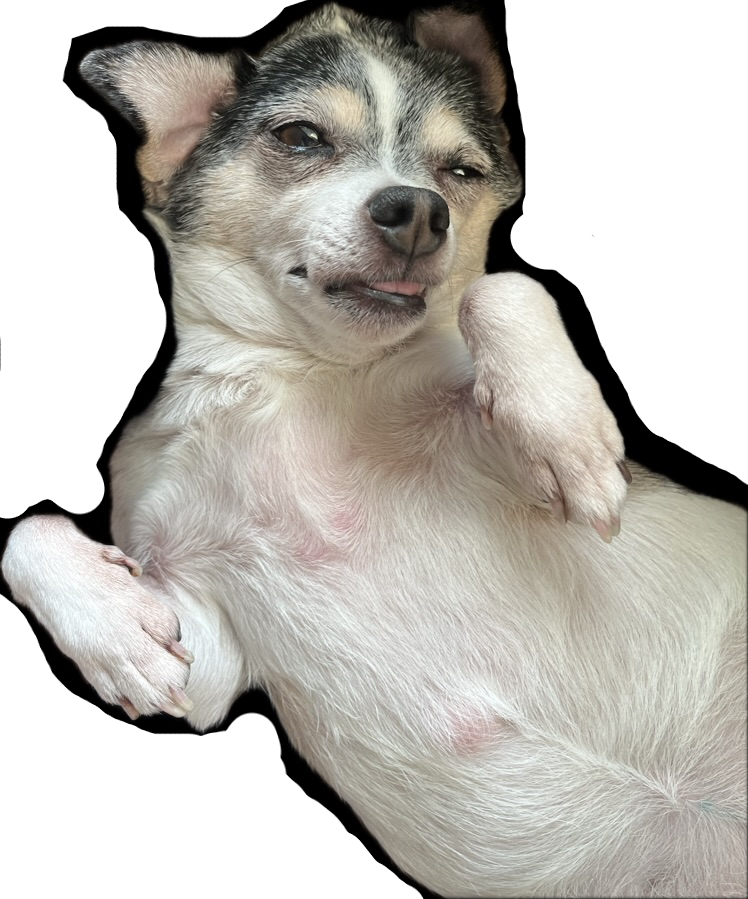
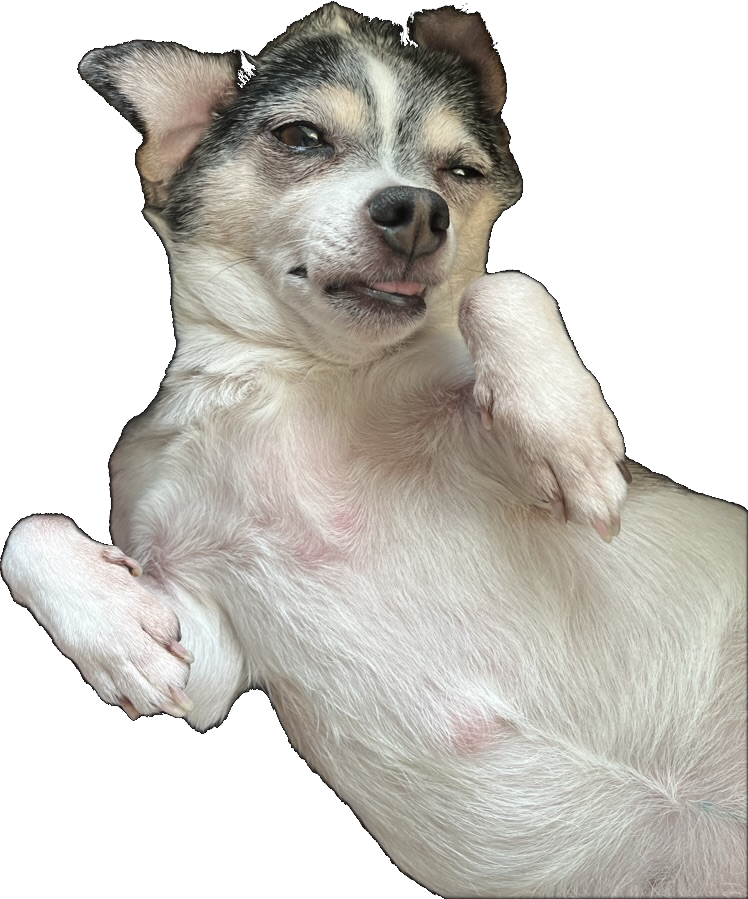
added alpha channel for tuna pics

diff --git a/script.js b/script.js
@@ -10,8 +10,8 @@ function runOnce() {
     rand = Math.floor(Math.random() * (max - min) + min);
     let imgElement = document.getElementById('tuna');
     let favicon = document.querySelector("link[rel*='icon']");
-    imgElement.src = 'tuna/tuna' + rand + '.jpg';
-    favicon.href = 'tuna/tuna' + rand + '.jpg';
+    imgElement.src = 'tuna/tuna' + rand + '.png';
+    favicon.href = 'tuna/tuna' + rand + '.png';
     hasRun = true;
   } else {
     console.log("Function has already run");

diff --git a/index.html b/index.html
@@ -5,7 +5,7 @@
     <title>hensley.jp</title>
     <link rel="icon" id="favicon" href="" type="image/x-icon">
   </head>
-  <body>
+  <body style="background-color: black">
     <header><h1>Under Construction</h1></header>
     <main>
       <img id="tuna" alt="Italian Tunni">
